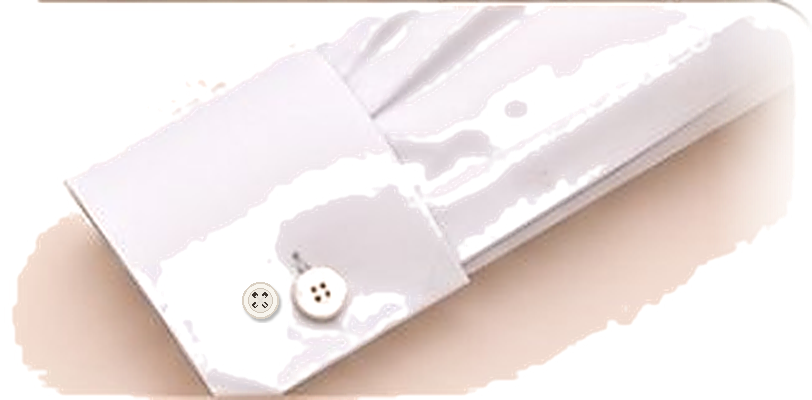
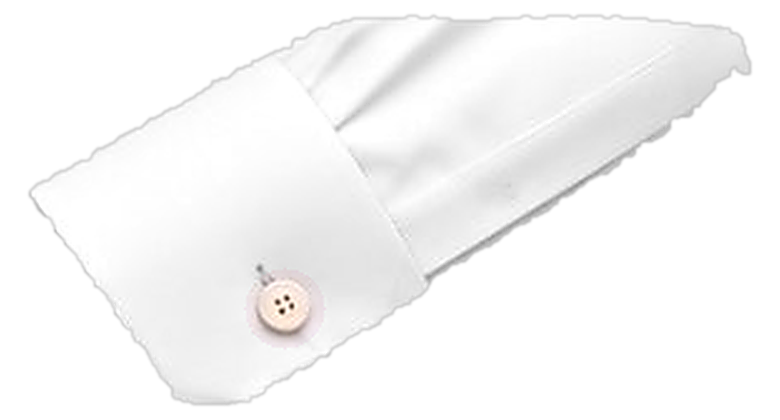
latest changes

diff --git a/src/components/CustomizationModal.tsx b/src/components/CustomizationModal.tsx
@@ -134,21 +134,21 @@ const COLLAR_OPTIONS = [
     title: "CUTAWAY COLLAR",
     badge: "CUTAWAY COLLAR",
     matchKey: "CUTAWAY",
-    image: "/customizer/collar_style_cutaway.png?v=4",
+    image: "/customizer/collar_style_cutaway.png?v=6",
   },
   {
     id: "mandarin",
     title: "MANDARIN COLLAR",
     badge: "MANDARIN COLLAR",
     matchKey: "MANDARIN",
-    image: "/customizer/collar_style_mandarin.png?v=4",
+    image: "/customizer/collar_style_mandarin.png?v=6",
   },
   {
     id: "buttondown",
     title: "BUTTON-DOWN COLLAR",
     badge: "BUTTON-DOWN\nCOLLAR",
     matchKey: "BUTTON",
-    image: "/customizer/collar_style_buttondown.png?v=4",
+    image: "/customizer/collar_style_buttondown.png?v=6",
   },
 ];
 
@@ -158,14 +158,14 @@ const CUFF_OPTIONS = [
     title: "CLASSIC CUFF",
     badge: "CLASSIC CUFF",
     matchKeys: ["CLASSIC", "BARREL"],
-    image: "/customizer/cuff_style_classic.png?v=4",
+    image: "/customizer/cuff_style_classic.png?v=6",
   },
   {
     id: "cufflink",
     title: "CUFFLINK CUFF (DOUBLE FOLD)",
     badge: "CUFFLINK CUFF\n(DOUBLE FOLD)",
     matchKeys: ["CUFFLINK", "FRENCH", "DOUBLE"],
-    image: "/customizer/cuff_style_cufflink.png?v=4",
+    image: "/customizer/cuff_style_cufflink.png?v=6",
   },
 ];
 
